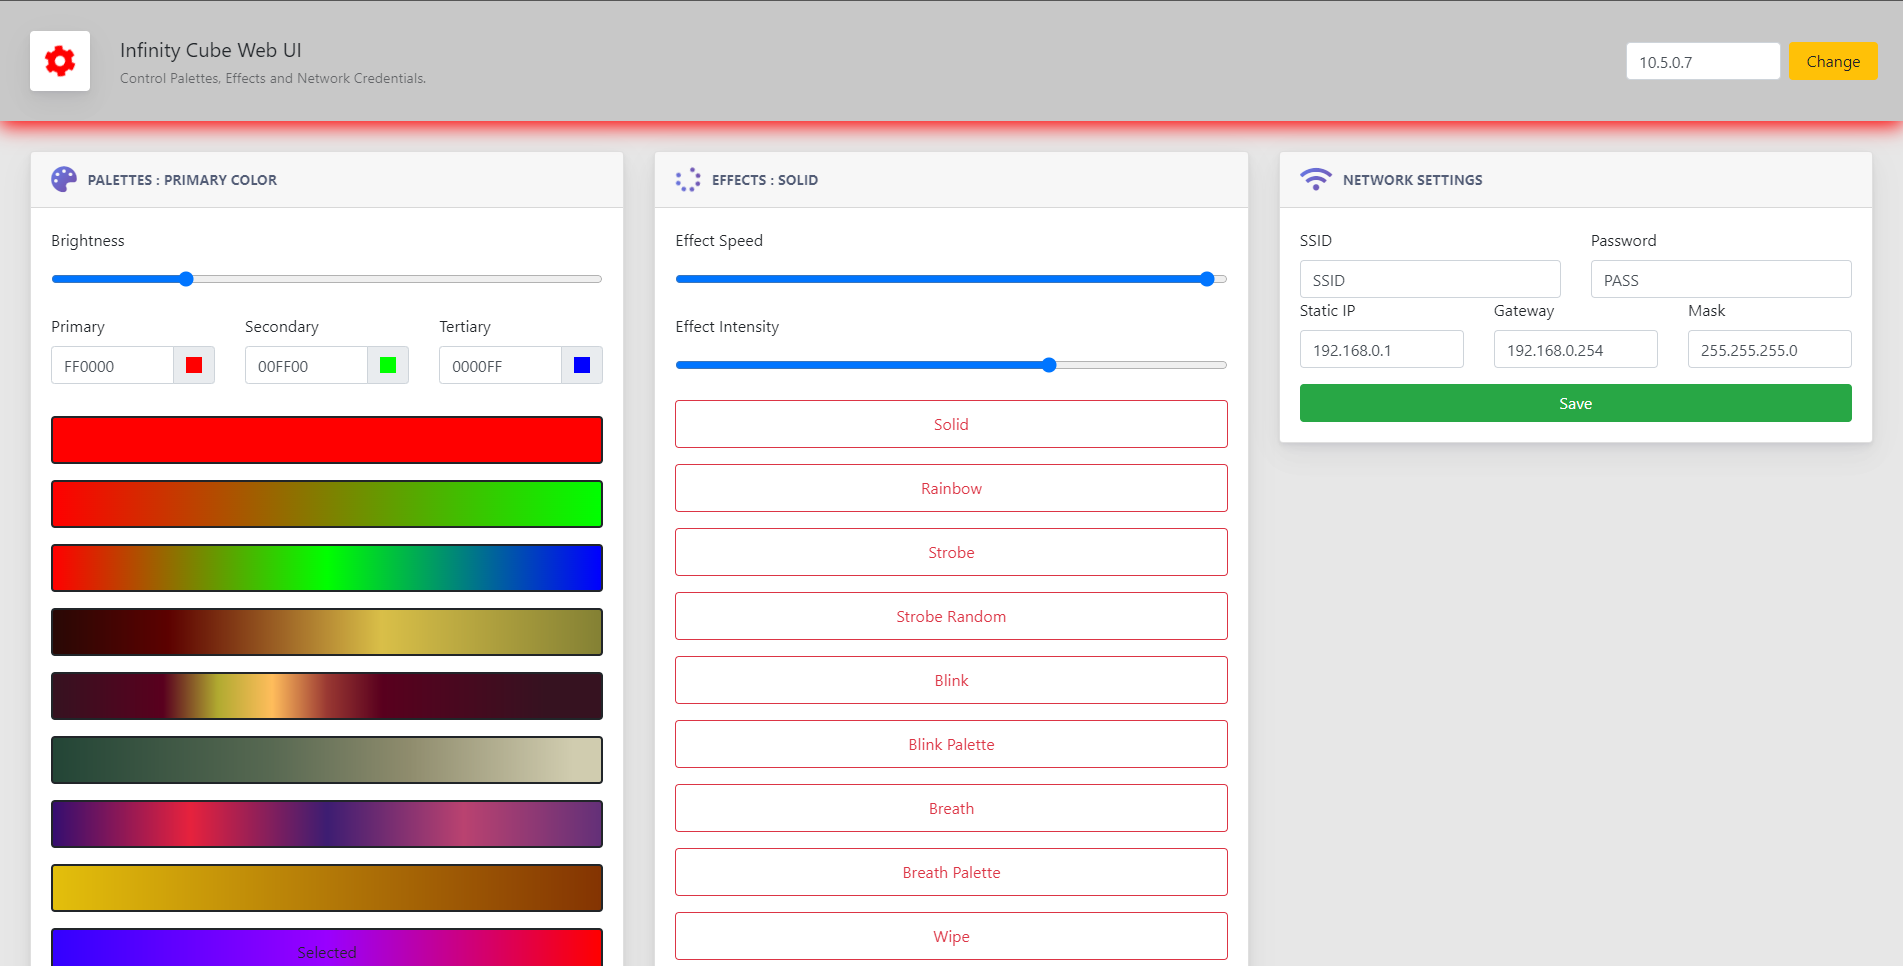
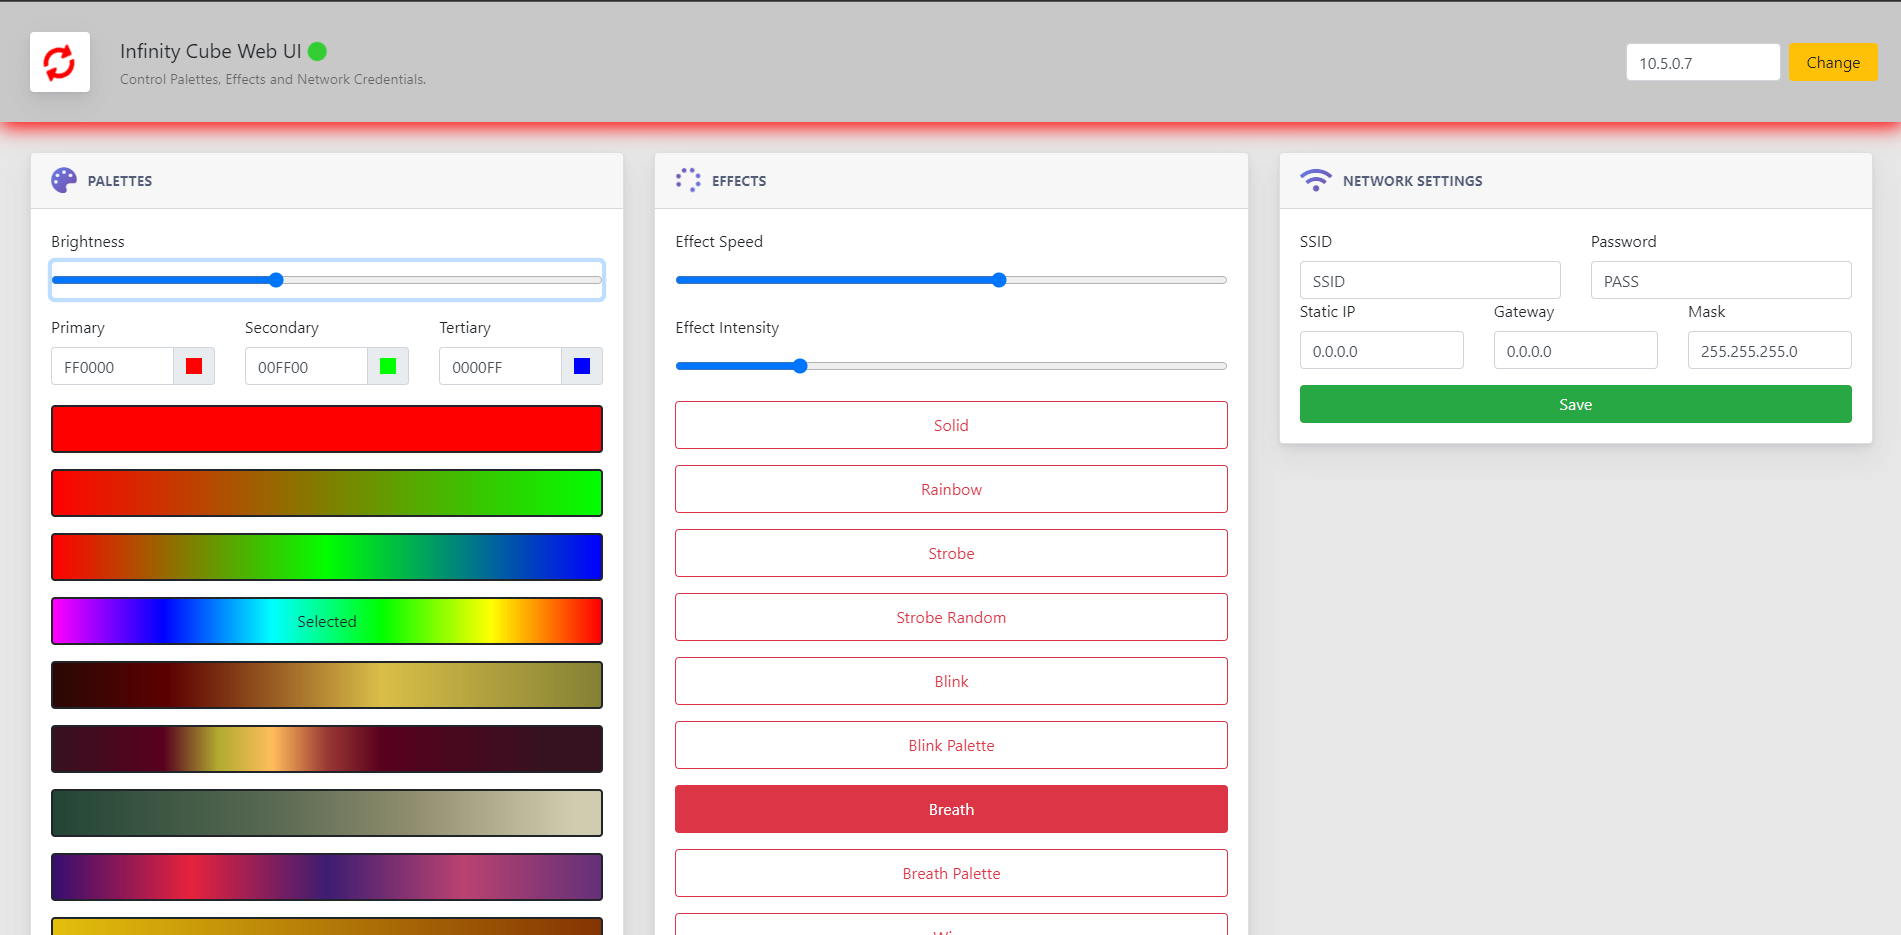
Added button controls and status screen support

diff --git a/web_app/utils/Api.js b/web_app/utils/Api.js
@@ -17,7 +17,6 @@ exports.fetchEffects = async function() {
         for (let effect in res.data)
             this.effets[res.data[effect]] = effect;
     }).catch(err => { console.log(err.code); });
-
 }
 
 exports.fetchPalettes = async function() {
@@ -25,7 +24,6 @@ exports.fetchPalettes = async function() {
         for (let palette in res.data)
             this.palettes[res.data[palette]] = palette;
     }).catch(err => { console.log(err.code); });
-
 }
 
 exports.fetchStatus = async function() {

diff --git a/web_app/app.js b/web_app/app.js
@@ -1,3 +1,5 @@
+#!/usr/bin/env node
+
 'use strict';
 
 const express    = require('express');

diff --git a/InputManager.cpp b/InputManager.cpp
@@ -1,0 +1,121 @@
+#include "InputManager.h"
+
+InputManager::InputManager(uint8_t fps, EffectManager* effectManager, ScreenManager* screenManager) { 
+  this->effectManager = effectManager;
+  this->screenManager = screenManager;
+  this->frametime = 1000/fps;
+  pinMode(Params::JOY_SW_PIN, INPUT);
+  pinMode(A0, INPUT);
+}
+
+void InputManager::frame() {
+  if (millis() - lastFrame > (unsigned long)frametime) {
+    uint16_t x = readX();
+    bool sw = readSW();
+
+    uint8_t tmp, delta;
+
+    if (sw && is_button_free) {
+      screenManager->setCursorPos((screenManager->getCursorPos() + 1) % 5);
+      screenManager->awake();
+      is_button_free = false;
+    } else if (!sw) {
+      is_button_free = true;
+    }
+    
+    switch(screenManager->getCursorPos()) {
+      case 0:
+        if (x > 550) {
+          delta = map(x - 550, 0, 474, 0, 7);
+          Serial.println(delta);
+          tmp = min(effectManager->getMasterBrightness() + delta, 255);
+          effectManager->setMasterBrightness(tmp);
+          screenManager->awake();
+          is_joystick_free = false;
+        } else if (x < 474) {
+          delta = map(x, 0, 474, 7, 0);
+          tmp = max(effectManager->getMasterBrightness() - delta, 0);
+          effectManager->setMasterBrightness(tmp);
+          screenManager->awake();
+          is_joystick_free = false;
+        } else if (x > 480 && x < 544 && !is_joystick_free) {
+          is_joystick_free = true;
+        }
+        break;
+      case 1:
+        if (x > 550) {
+          delta = map(x - 550, 0, 474, 0, 7);
+          tmp = min(effectManager->getEffectSpeed() + delta, 255);
+          effectManager->setEffectSpeed(tmp);
+          screenManager->awake();
+          is_joystick_free = false;
+        } else if (x < 474) {
+          delta = map(x, 0, 474, 7, 0);
+          tmp = max(effectManager->getEffectSpeed() - delta, 0);
+          effectManager->setEffectSpeed(tmp);
+          screenManager->awake();
+          is_joystick_free = false;
+        } else if (x > 480 && x < 544 && !is_joystick_free) {
+          is_joystick_free = true;
+        }
+        break;
+      case 2:
+        if (x > 550) {
+          delta = map(x - 550, 0, 474, 0, 7);
+          tmp = min(effectManager->getEffectIntensity() + delta, 255);
+          effectManager->setEffectIntensity(tmp);
+          screenManager->awake();
+          is_joystick_free = false;
+        } else if (x < 474) {
+          delta = map(x, 0, 474, 7, 0);
+          tmp = max(effectManager->getEffectIntensity() - delta, 0);
+          effectManager->setEffectIntensity(tmp);
+          screenManager->awake();
+          is_joystick_free = false;
+        } else if (x > 480 && x < 544 && !is_joystick_free) {
+          is_joystick_free = true;
+        }
+        break;
+      case 3:
+        if (x > 1000 && is_joystick_free) {
+          tmp = (effectManager->getEffectId() + 1) % (Params::NB_EFFECTS - 1);
+          effectManager->selectEffect(tmp);
+          screenManager->awake();
+          is_joystick_free = false;
+        } else if (x < 24 && is_joystick_free) {
+          tmp = (effectManager->getEffectId() - 1) % (Params::NB_EFFECTS - 1);
+          effectManager->selectEffect(tmp);
+          screenManager->awake();
+          is_joystick_free = false;
+        } else if (x > 480 && x < 544 && !is_joystick_free) {
+          is_joystick_free = true;
+        }
+        break;
+      case 4:
+        if (x > 1000 && is_joystick_free) {
+          tmp = (effectManager->getPaletteId() + 1) % (Params::NB_PALETTES - 1);
+          effectManager->selectPalette(tmp);
+          screenManager->awake();
+          is_joystick_free = false;
+        } else if (x < 24 && is_joystick_free) {
+          tmp = (effectManager->getPaletteId() - 1) % (Params::NB_PALETTES - 1);
+          effectManager->selectPalette(tmp);
+          screenManager->awake();
+          is_joystick_free = false;
+        } else if (x > 480 && x < 544 && !is_joystick_free) {
+          is_joystick_free = true;
+        }
+        break;
+    }
+    lastFrame = millis();
+    
+  }
+}
+
+uint16_t InputManager::readX() {
+  return analogRead(A0);
+}
+
+bool InputManager::readSW() {
+  return digitalRead(Params::JOY_SW_PIN) == LOW;
+}

diff --git a/ScreenManager.cpp b/ScreenManager.cpp
@@ -1,0 +1,86 @@
+#include "ScreenManager.h"
+
+ScreenManager::ScreenManager(uint8_t fps, EffectManager* effectManager, Adafruit_SSD1306* display) {
+  this->effectManager = effectManager;
+  this->display = display;
+  display->begin(SSD1306_SWITCHCAPVCC, 0x3C);
+  display->clearDisplay();
+  display->setTextSize(1);
+  display->setTextColor(SSD1306_WHITE);
+  this->frametime = 1000/fps;
+}
+
+void ScreenManager::awake() {
+  sleeping = false;
+  sleep_cnt = Params::SLEEP_DELAY;
+}
+
+void ScreenManager::frame() {
+  if (millis() - lastFrame > (unsigned long)frametime) {
+    if (sleep_cnt <= 0) {
+      sleeping = true;
+      sleep_cnt = Params::SLEEP_DELAY;
+      display->clearDisplay();
+      display->display();
+    }
+    if (!sleeping) {
+      display->clearDisplay();
+      fill();
+      sleep_cnt -= millis() - lastFrame;
+      display->display();
+    }
+    lastFrame = millis();
+  }
+}
+
+void ScreenManager::fill() {
+  drawLayout();
+  drawSlider(32, 17, effectManager->getMasterBrightness());
+  drawSlider(32, 27, effectManager->getEffectSpeed());
+  drawSlider(32, 37, effectManager->getEffectIntensity());
+  drawIndicator((cursor_pos + 2) * 10);
+  display->setCursor(32, 46);
+  display->write(effectManager->getEffect()->getLabel().c_str());
+  display->setCursor(32, 56);
+  display->write(effectManager->getPalette()->getLabel().c_str());
+}
+
+void ScreenManager::drawSlider(uint8_t x, uint8_t y, uint8_t value) {
+  uint8_t mapped = x + map(value, 0, 255, 0, 87);
+  display->drawLine(x + 1, y + 2, x + 86, y + 2, SSD1306_WHITE);
+  display->drawLine(x + 1, y + 4, x + 86, y + 4, SSD1306_WHITE);
+  display->drawPixel(x, y + 3, SSD1306_WHITE);
+  display->drawPixel(x + 87, y + 3, SSD1306_WHITE);
+  display->drawLine(x,  y + 3, mapped, y + 3, SSD1306_WHITE);
+  display->drawLine(mapped, y, mapped, y + 5, SSD1306_WHITE);
+  display->drawLine(mapped - 1, y, mapped + 1, y, SSD1306_WHITE);
+  display->drawLine(mapped - 1, y + 5, mapped + 1, y + 5, SSD1306_WHITE);
+}
+
+void ScreenManager::drawLayout() {
+  display->setCursor(13, 4);
+  display->write("Infinity Cube 1.0");
+  display->setCursor(7, 16);
+  display->write("Brt:");
+  display->setCursor(7, 26);
+  display->write("Spd:");
+  display->setCursor(7, 36);
+  display->write("Int:");
+  display->setCursor(7, 46);
+  display->write("Eff:");
+  display->setCursor(7, 56);
+  display->write("Pal:");
+}
+
+void ScreenManager::drawIndicator(uint8_t line) {
+  display->drawLine(1, line, 4, line, SSD1306_WHITE);
+  display->drawLine(123, line, 126, line, SSD1306_WHITE);
+  display->drawPixel(2, line + 2, SSD1306_WHITE);
+  display->drawPixel(2, line - 2, SSD1306_WHITE);
+  display->drawPixel(3, line + 1, SSD1306_WHITE);
+  display->drawPixel(3, line - 1, SSD1306_WHITE);
+  display->drawPixel(125, line + 2, SSD1306_WHITE);
+  display->drawPixel(125, line - 2, SSD1306_WHITE);
+  display->drawPixel(124, line + 1, SSD1306_WHITE);
+  display->drawPixel(124, line - 1, SSD1306_WHITE);
+}

diff --git a/Effects.cpp b/Effects.cpp
@@ -150,7 +150,7 @@ void Dynamic::renderTo(CRGB* leds, uint32_t frameTime) {
   if (dyn_cnt > 10) {
     fill_solid(leds, Params::NUM_PIXELS, CRGB::Black);
     for (int i = 0; i < effectManager->getEffectIntensity() / 255.0 * Params::NUM_PIXELS; i++)
-      leds[random8(Params::NUM_PIXELS)] = CHSV(random8(), 0xFF, 0xFF);
+      leds[random16(Params::NUM_PIXELS)] = CHSV(random8(), 0xFF, 0xFF);
     dyn_cnt = 0;
   }
 }
@@ -162,7 +162,7 @@ void DynamicPal::renderTo(CRGB* leds, uint32_t frameTime) {
     fill_solid(leds, Params::NUM_PIXELS, CRGB::Black);
     for (int i = 0; i < effectManager->getEffectIntensity() / 255.0 * Params::NUM_PIXELS; i++) {
       int index = random16(Params::NUM_PIXELS);
-      leds[i] = effectManager->getPalette()->sample((uint8_t)(0xFF * index / Params::NUM_PIXELS), 0xFF); 
+      leds[index] = effectManager->getPalette()->sample((uint8_t)(0xFF * index / Params::NUM_PIXELS), 0xFF); 
     }
     dyn_cnt = 0;
   }
@@ -183,7 +183,7 @@ void Scan::renderTo(CRGB* leds, uint32_t frameTime) {
     fill_solid(leds, Params::NUM_PIXELS, CRGB::Black);
     for (int i = 0; i < effectManager->getEffectIntensity() / 255.0 * (Params::NUM_PIXELS >> 1); i++) {
       uint16_t index = (current_pos + i) % Params::NUM_PIXELS;
-      leds[i] = effectManager->getPalette()->sample((uint8_t)(0xFF * index / Params::NUM_PIXELS), 0xFF);
+      leds[index] = effectManager->getPalette()->sample((uint8_t)(0xFF * index / Params::NUM_PIXELS), 0xFF);
     }
     scan_cnt = 0;
     if (current_pos > Params::NUM_PIXELS)
@@ -233,7 +233,7 @@ void PaletteTwinkle::renderTo(CRGB* leds, uint32_t frameTime) {
   if (twinkle_cnt > cnt_threshold ) {
     for (int i = 0; i < twinkle_cnt / cnt_threshold; i++) {
       uint16_t index = random16(Params::NUM_PIXELS);
-      leds[i] = effectManager->getPalette()->sample((uint8_t)(0xFF * i / Params::NUM_PIXELS), 0xFF);
+      leds[index] = effectManager->getPalette()->sample((uint8_t)(0xFF * i / Params::NUM_PIXELS), 0xFF);
     }
     twinkle_cnt = 0;
   }

diff --git a/ScreenManager.h b/ScreenManager.h
@@ -1,0 +1,33 @@
+#pragma once
+
+#include <SPI.h>
+#include <Wire.h>
+#include <Adafruit_GFX.h>
+#include "EffectManager.h"
+#include <Adafruit_SSD1306.h>
+
+
+class ScreenManager {
+  private:
+    EffectManager* effectManager;
+    Adafruit_SSD1306* display;
+    uint8_t cursor_pos = 0;
+    uint32_t lastFrame = 0;
+    uint32_t frametime = 0;
+    int32_t sleep_cnt = Params::SLEEP_DELAY;
+    bool sleeping = false;
+    
+    void fill();
+    void drawSlider(uint8_t x, uint8_t y, uint8_t value);
+    void drawLayout();
+    void drawIndicator(uint8_t line);
+    
+  public:
+    ScreenManager(uint8_t fps, EffectManager* effectManager, Adafruit_SSD1306* display);
+    ~ScreenManager() {}
+
+    void frame();
+    void awake();
+    uint8_t getCursorPos() { return cursor_pos; }
+    void setCursorPos(uint8_t cursor_pos) { this->cursor_pos = cursor_pos; } 
+};

diff --git a/Params.h b/Params.h
@@ -4,13 +4,15 @@
 class Params {
   public:
     static const uint16_t NUM_PIXELS        = 190;
-    static const uint8_t LED_PIN            = 4;
+    static const uint8_t LED_PIN            = 12;  // D6
+    static const uint8_t JOY_SW_PIN         = 13;  // D7
     static const uint8_t NB_EFFECTS         = 21;
     static const uint8_t NB_PALETTES        = 54;
     static const uint8_t FPS                = 60;
     static const uint8_t BRIGHTNESS         = 0;
     static const uint8_t MAX_WIFI_ATTEMPTS  = 25;
     static const uint8_t MAX_BRIGHTNESS     = 255;
+    static const uint16_t SLEEP_DELAY       = 10000;
     
     static const uint32_t DEFAULT_PRIMARY_COLOR    = 0xFF0000;
     static const uint32_t DEFAULT_SECONDARY_COLOR  = 0x00FF00;

diff --git a/InputManager.h b/InputManager.h
@@ -1,0 +1,23 @@
+#pragma once
+
+#include "EffectManager.h"
+#include "ScreenManager.h"
+
+class InputManager {
+  private:
+    EffectManager* effectManager;
+    ScreenManager* screenManager;
+    uint32_t lastFrame = 0;
+    uint32_t frametime = 0;
+    bool is_joystick_free = true;
+    bool is_button_free = true;
+
+    uint16_t readX();
+    bool readSW();
+    
+  public:
+    InputManager(uint8_t fps, EffectManager* effectManager, ScreenManager* screenManager);
+    ~InputManager() {}
+  
+    void frame();
+};

diff --git a/EffectManager.h b/EffectManager.h
@@ -10,8 +10,8 @@
 
 class EffectManager {
   public:
-      static Effect* effects[Params::NB_EFFECTS];
-      static Palette* palettes[Params::NB_PALETTES];
+    static Effect* effects[Params::NB_EFFECTS];
+    static Palette* palettes[Params::NB_PALETTES];
 
   private:
     constexpr static const uint16_t DISABLED_PIXELS[] = {};

diff --git a/Effects.h b/Effects.h
@@ -89,10 +89,6 @@ class Breath : public Effect {
 };
 
 class BreathPal : public Effect {
-  private:
-    float blink_cnt = 0;
-    bool snd = false;
-
   public:
     BreathPal() : Effect() { this->label = "Breath Palette"; }
     ~BreathPal() {}

diff --git a/README.md b/README.md
@@ -16,7 +16,9 @@ A kind of lightweight ESP32/ESP8266 webserver API and a [NodeJS](https://nodejs.
 - Access Point and station mode - automatic failsafe AP see [ApiServer](./ApiServer.cpp)
 - Ability to disable leds on the strip to avoid overheating (in my case I disabled leds behind the corner covers)
 - Possibility to rescale the brightness range
-
+- Controllable using integrated Joystick
+- Possibility to use an I2C 128x64 screen to monitor status (with configurable auto sleep)
+  - Not tested yet, will be reworked and tested when I will have the hardware delivered
 ## 📲 Quick start
 
 ### Required libraries
@@ -99,6 +101,12 @@ The API is exposed over 2 endpoints
 
 <p align="center">
     <img src="/images/webUI.PNG" width="100%">
+</p>
+
+## ⚙Integrated Screen
+
+<p align="center">
+    <img src="/images/screen.png" width="70%">
 </p>
 
 ## Legacy
